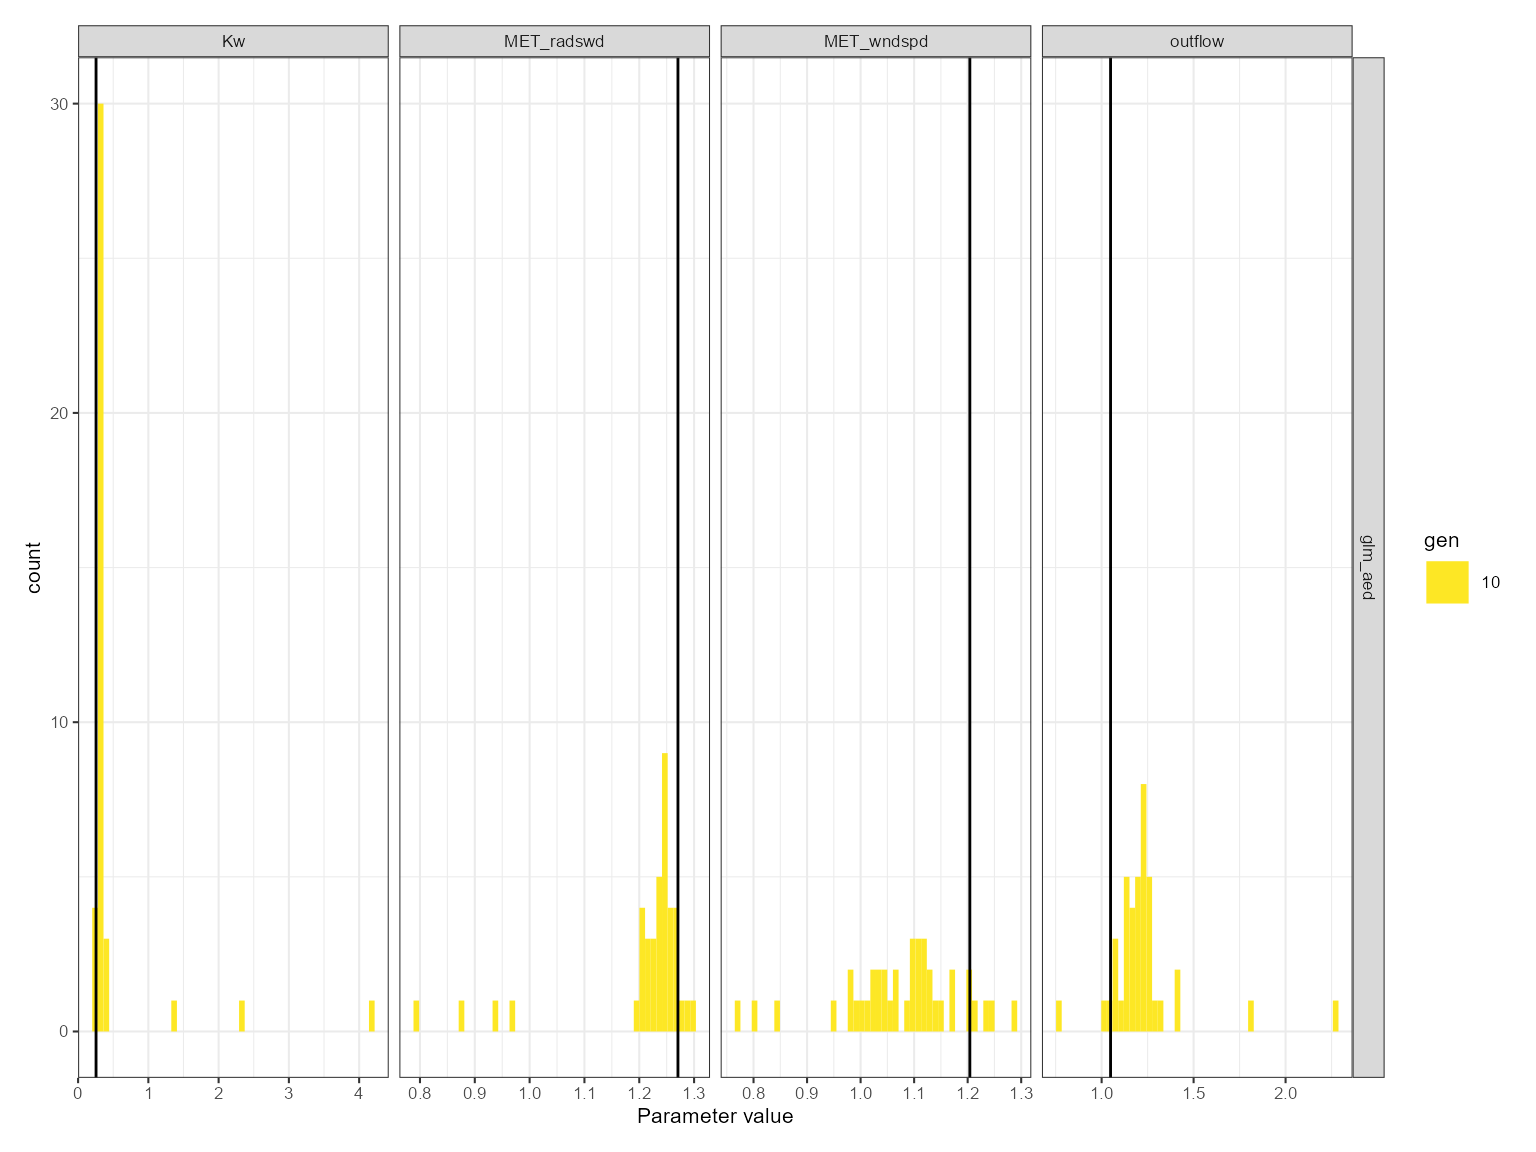
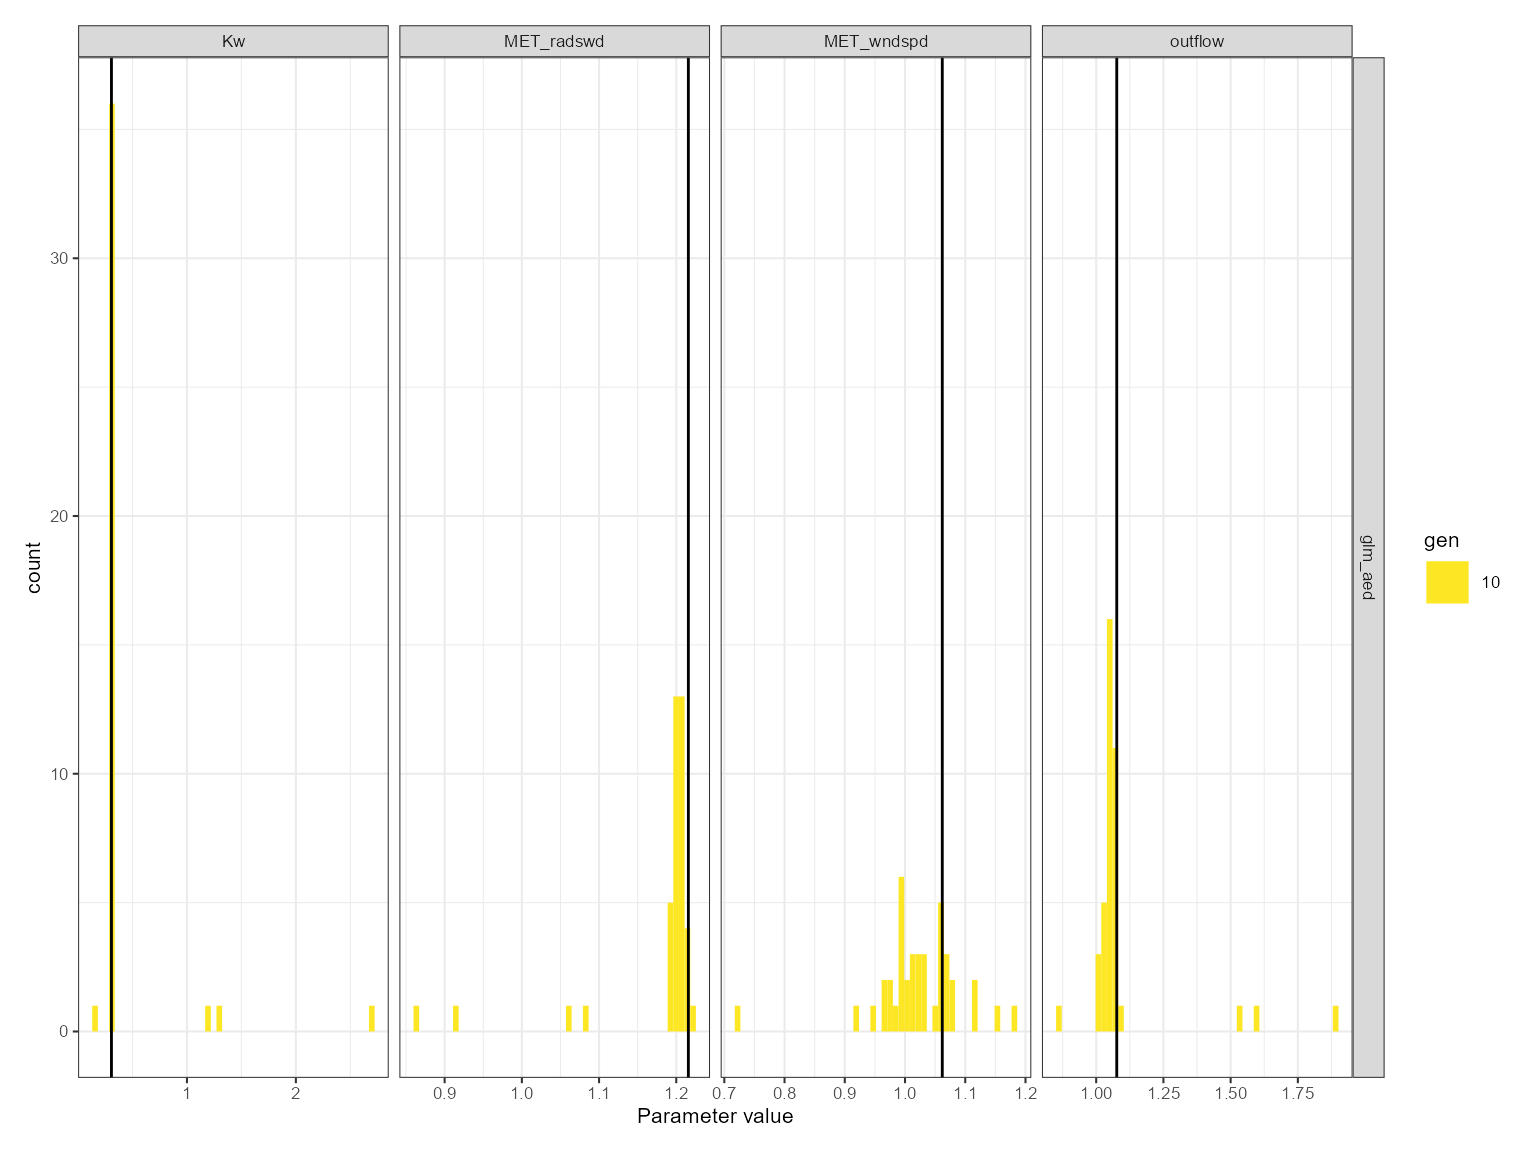
Deploying to gh-pages from @ limnotrack/aemetools@bf7b00283a17cd5ee87b092030da4ab49423300b 🚀

diff --git a/articles/calibrate-aeme.html b/articles/calibrate-aeme.html
@@ -121,9 +121,9 @@ make sure the current model setup is working.</p>
 <code class="sourceCode R"><span><span class="va">aeme_data</span> <span class="op">&lt;-</span> <span class="fu"><a href="https://rdrr.io/pkg/AEME/man/run_aeme.html" class="external-link">run_aeme</a></span><span class="op">(</span>aeme_data <span class="op">=</span> <span class="va">aeme_data</span>, model <span class="op">=</span> <span class="va">model</span>,</span>
 <span>                      verbose <span class="op">=</span> <span class="cn">FALSE</span>, mod_ctrls <span class="op">=</span> <span class="va">mod_ctrls</span>,</span>
 <span>                      path <span class="op">=</span> <span class="va">path</span><span class="op">)</span></span>
-<span><span class="co">#&gt; Running models... (Have you tried parallelizing?) [2024-01-11 23:53:02]</span></span>
-<span><span class="co">#&gt; GLM-AED run successful! [2024-01-11 23:53:03]</span></span>
-<span><span class="co">#&gt; Model run complete![2024-01-11 23:53:03]</span></span>
+<span><span class="co">#&gt; Running models... (Have you tried parallelizing?) [2024-01-12 01:00:41]</span></span>
+<span><span class="co">#&gt; GLM-AED run successful! [2024-01-12 01:00:41]</span></span>
+<span><span class="co">#&gt; Model run complete![2024-01-12 01:00:41]</span></span>
 <span><span class="co">#&gt; Retrieving and formatting temp for model glm_aed</span></span>
 <span><span class="co">#&gt; Retrieving and formatting salt for model glm_aed</span></span>
 <span><span class="fu"><a href="https://rdrr.io/r/graphics/plot.default.html" class="external-link">plot</a></span><span class="op">(</span><span class="va">aeme_data</span><span class="op">)</span></span></code></pre></div>
@@ -228,9 +228,9 @@ but the model output is generate within the lake folder.</p>
 <div class="sourceCode" id="cb7"><pre class="downlit sourceCode r">
 <code class="sourceCode R"><span><span class="fu"><a href="../reference/run_aeme_param.html">run_aeme_param</a></span><span class="op">(</span>aeme_data <span class="op">=</span> <span class="va">aeme_data</span>, param <span class="op">=</span> <span class="va">aeme_parameters</span>,</span>
 <span>                 model <span class="op">=</span> <span class="va">model</span>, path <span class="op">=</span> <span class="va">path</span>, mod_ctrls <span class="op">=</span> <span class="va">mod_ctrls</span><span class="op">)</span></span>
-<span><span class="co">#&gt; Running models... (Have you tried parallelizing?) [2024-01-11 23:53:13]</span></span>
-<span><span class="co">#&gt; GLM-AED run successful! [2024-01-11 23:53:14]</span></span>
-<span><span class="co">#&gt; Model run complete![2024-01-11 23:53:14]</span></span></code></pre></div>
+<span><span class="co">#&gt; Running models... (Have you tried parallelizing?) [2024-01-12 01:00:51]</span></span>
+<span><span class="co">#&gt; GLM-AED run successful! [2024-01-12 01:00:52]</span></span>
+<span><span class="co">#&gt; Model run complete![2024-01-12 01:00:52]</span></span></code></pre></div>
 </div>
 <div class="section level2">
 <h2 id="calibration-setup">Calibration setup<a class="anchor" aria-label="anchor" href="#calibration-setup"></a>
@@ -379,79 +379,79 @@ values.</p>
 <span>                   param <span class="op">=</span> <span class="va">aeme_parameters</span>, model <span class="op">=</span> <span class="va">model</span>,</span>
 <span>                   mod_ctrls <span class="op">=</span> <span class="va">mod_ctrls</span>, FUN_list <span class="op">=</span> <span class="va">FUN_list</span>, ctrl <span class="op">=</span> <span class="va">ctrl</span>,</span>
 <span>                   vars_sim <span class="op">=</span> <span class="va">vars_sim</span>, weights <span class="op">=</span> <span class="va">weights</span><span class="op">)</span></span>
-<span><span class="co">#&gt; Extracting indices for modelled variables [2024-01-11 23:53:15]</span></span>
-<span><span class="co">#&gt; Complete! [2024-01-11 23:53:15]</span></span>
+<span><span class="co">#&gt; Extracting indices for modelled variables [2024-01-12 01:00:52]</span></span>
+<span><span class="co">#&gt; Complete! [2024-01-12 01:00:53]</span></span>
 <span><span class="co">#&gt; Calibrating in parallel using 1 cores...</span></span>
-<span><span class="co">#&gt; Starting generation 1/10, 40 members. [2024-01-11 23:53:16]</span></span>
+<span><span class="co">#&gt; Starting generation 1/10, 40 members. [2024-01-12 01:00:53]</span></span>
 <span><span class="co">#&gt;        light.Kw MET_wndspd MET_radswd outflow</span></span>
-<span><span class="co">#&gt; mean      2.812     1.0000     0.9995  1.4970</span></span>
-<span><span class="co">#&gt; median    2.832     0.9985     1.0010  1.5010</span></span>
-<span><span class="co">#&gt; sd        1.576     0.1753     0.1753  0.5846</span></span>
-<span><span class="co">#&gt; Best fit: 2.103 (sd: 219.525)</span></span>
-<span><span class="co">#&gt;             Parameters: [0.369, 1.078, 1.223, 1.3]</span></span>
+<span><span class="co">#&gt; mean      2.806     0.9990     1.0000  1.5010</span></span>
+<span><span class="co">#&gt; median    2.844     0.9997     1.0010  1.5220</span></span>
+<span><span class="co">#&gt; sd        1.579     0.1759     0.1748  0.5864</span></span>
+<span><span class="co">#&gt; Best fit: 2.171 (sd: 219.513)</span></span>
+<span><span class="co">#&gt;             Parameters: [1.154, 0.734, 1.007, 1.268]</span></span>
 <span><span class="co">#&gt; Survival rate: 1</span></span>
-<span><span class="co">#&gt; Starting generation 2/10, 40 members. [2024-01-11 23:53:50]</span></span>
+<span><span class="co">#&gt; Starting generation 2/10, 40 members. [2024-01-12 01:01:28]</span></span>
 <span><span class="co">#&gt;        light.Kw MET_wndspd MET_radswd outflow</span></span>
-<span><span class="co">#&gt; mean      2.406     1.1100      1.087  1.0290</span></span>
-<span><span class="co">#&gt; median    2.367     1.1050      1.106  1.0060</span></span>
-<span><span class="co">#&gt; sd        1.677     0.1115      0.154  0.2832</span></span>
-<span><span class="co">#&gt; Best fit: 2.1031 (sd: 93.855)</span></span>
+<span><span class="co">#&gt; mean      3.098     1.0020     1.0350  0.9365</span></span>
+<span><span class="co">#&gt; median    2.975     1.0020     1.0230  0.8771</span></span>
+<span><span class="co">#&gt; sd        1.473     0.1702     0.1471  0.3102</span></span>
+<span><span class="co">#&gt; Best fit: 2.1191 (sd: 112.85)</span></span>
 <span><span class="co">#&gt; Survival rate: 1</span></span>
-<span><span class="co">#&gt; Starting generation 3/10, 40 members. [2024-01-11 23:54:25]</span></span>
+<span><span class="co">#&gt; Starting generation 3/10, 40 members. [2024-01-12 01:02:03]</span></span>
 <span><span class="co">#&gt;        light.Kw MET_wndspd MET_radswd outflow</span></span>
-<span><span class="co">#&gt; mean      2.314    1.09500     1.1020  1.1240</span></span>
-<span><span class="co">#&gt; median    2.166    1.08800     1.1160  1.1070</span></span>
-<span><span class="co">#&gt; sd        1.757    0.09507     0.1314  0.2436</span></span>
-<span><span class="co">#&gt; Best fit: 2.1031 (sd: 110.68)</span></span>
+<span><span class="co">#&gt; mean      2.009     0.9133    1.02700   1.177</span></span>
+<span><span class="co">#&gt; median    2.056     0.9168    1.02700   1.124</span></span>
+<span><span class="co">#&gt; sd        1.074     0.1407    0.06835   0.318</span></span>
+<span><span class="co">#&gt; Best fit: 2.1191 (sd: 144.06)</span></span>
 <span><span class="co">#&gt; Survival rate: 1</span></span>
-<span><span class="co">#&gt; Starting generation 4/10, 40 members. [2024-01-11 23:55:00]</span></span>
+<span><span class="co">#&gt; Starting generation 4/10, 40 members. [2024-01-12 01:02:37]</span></span>
 <span><span class="co">#&gt;        light.Kw MET_wndspd MET_radswd outflow</span></span>
-<span><span class="co">#&gt; mean      2.268    1.10100    1.12600  1.1270</span></span>
-<span><span class="co">#&gt; median    2.315    1.12500    1.12000  1.1080</span></span>
-<span><span class="co">#&gt; sd        1.342    0.09229    0.07281  0.3161</span></span>
-<span><span class="co">#&gt; Best fit: 2.1031 (sd: 108.07)</span></span>
+<span><span class="co">#&gt; mean     1.1530     0.9217    1.06800  1.1920</span></span>
+<span><span class="co">#&gt; median   1.0970     0.8916    1.07000  1.1440</span></span>
+<span><span class="co">#&gt; sd       0.6261     0.1244    0.07244  0.3192</span></span>
+<span><span class="co">#&gt; Best fit: 2.1191 (sd: 135.59)</span></span>
 <span><span class="co">#&gt; Survival rate: 1</span></span>
-<span><span class="co">#&gt; Starting generation 5/10, 40 members. [2024-01-11 23:55:35]</span></span>
+<span><span class="co">#&gt; Starting generation 5/10, 40 members. [2024-01-12 01:03:12]</span></span>
 <span><span class="co">#&gt;        light.Kw MET_wndspd MET_radswd outflow</span></span>
-<span><span class="co">#&gt; mean      1.370     1.1150    1.15100  1.1720</span></span>
-<span><span class="co">#&gt; median    1.317     1.1170    1.15900  1.0970</span></span>
-<span><span class="co">#&gt; sd        1.013     0.1211    0.08819  0.2081</span></span>
-<span><span class="co">#&gt; Best fit: 2.1031 (sd: 108.09)</span></span>
+<span><span class="co">#&gt; mean     0.7551     0.9304    1.09800  1.1590</span></span>
+<span><span class="co">#&gt; median   0.7618     0.9210    1.11700  1.1110</span></span>
+<span><span class="co">#&gt; sd       0.3152     0.1346    0.08601  0.2364</span></span>
+<span><span class="co">#&gt; Best fit: 2.1191 (sd: 98.05)</span></span>
 <span><span class="co">#&gt; Survival rate: 1</span></span>
-<span><span class="co">#&gt; Starting generation 6/10, 40 members. [2024-01-11 23:56:09]</span></span>
+<span><span class="co">#&gt; Starting generation 6/10, 40 members. [2024-01-12 01:03:47]</span></span>
 <span><span class="co">#&gt;        light.Kw MET_wndspd MET_radswd outflow</span></span>
-<span><span class="co">#&gt; mean     1.1950    1.10800     1.1130  1.1000</span></span>
-<span><span class="co">#&gt; median   1.0240    1.12300     1.1220  1.0950</span></span>
-<span><span class="co">#&gt; sd       0.9182    0.07769     0.1259  0.2363</span></span>
-<span><span class="co">#&gt; Best fit: 2.1031 (sd: 76.06)</span></span>
+<span><span class="co">#&gt; mean     0.6751    0.91070    1.14200  1.1330</span></span>
+<span><span class="co">#&gt; median   0.4019    0.91370    1.14100  1.0620</span></span>
+<span><span class="co">#&gt; sd       1.0520    0.09814    0.04127  0.2949</span></span>
+<span><span class="co">#&gt; Best fit: 2.1191 (sd: 111.44)</span></span>
 <span><span class="co">#&gt; Survival rate: 1</span></span>
-<span><span class="co">#&gt; Starting generation 7/10, 40 members. [2024-01-11 23:56:44]</span></span>
+<span><span class="co">#&gt; Starting generation 7/10, 40 members. [2024-01-12 01:04:22]</span></span>
 <span><span class="co">#&gt;        light.Kw MET_wndspd MET_radswd outflow</span></span>
-<span><span class="co">#&gt; mean     1.0180    1.14700    1.15000  1.2040</span></span>
-<span><span class="co">#&gt; median   0.7626    1.14800    1.13900  1.1700</span></span>
-<span><span class="co">#&gt; sd       1.1630    0.06284    0.08929  0.3054</span></span>
-<span><span class="co">#&gt; Best fit: 2.1031 (sd: 127.51)</span></span>
+<span><span class="co">#&gt; mean     0.7009     0.9768    1.16400  1.0810</span></span>
+<span><span class="co">#&gt; median   0.3762     0.9897    1.16300  1.0490</span></span>
+<span><span class="co">#&gt; sd       1.0710     0.1357    0.02969  0.1656</span></span>
+<span><span class="co">#&gt; Best fit: 2.11 (sd: 77.929)</span></span>
 <span><span class="co">#&gt; Survival rate: 1</span></span>
-<span><span class="co">#&gt; Starting generation 8/10, 40 members. [2024-01-11 23:57:19]</span></span>
+<span><span class="co">#&gt; Starting generation 8/10, 40 members. [2024-01-12 01:04:58]</span></span>
 <span><span class="co">#&gt;        light.Kw MET_wndspd MET_radswd outflow</span></span>
-<span><span class="co">#&gt; mean     0.8009    1.13000    1.19100  1.1770</span></span>
-<span><span class="co">#&gt; median   0.4941    1.13700    1.21000  1.1380</span></span>
-<span><span class="co">#&gt; sd       1.1430    0.06815    0.08231  0.1477</span></span>
-<span><span class="co">#&gt; Best fit: 2.1024 (sd: 100.56)</span></span>
+<span><span class="co">#&gt; mean     0.6261     1.0130     1.1550  1.1010</span></span>
+<span><span class="co">#&gt; median   0.3398     1.0150     1.1860  1.0380</span></span>
+<span><span class="co">#&gt; sd       0.9954     0.1188     0.1117  0.2731</span></span>
+<span><span class="co">#&gt; Best fit: 2.1096 (sd: 118.66)</span></span>
 <span><span class="co">#&gt; Survival rate: 1</span></span>
-<span><span class="co">#&gt; Starting generation 9/10, 40 members. [2024-01-11 23:57:54]</span></span>
+<span><span class="co">#&gt; Starting generation 9/10, 40 members. [2024-01-12 01:05:33]</span></span>
 <span><span class="co">#&gt;        light.Kw MET_wndspd MET_radswd outflow</span></span>
-<span><span class="co">#&gt; mean     0.6100      1.129     1.1870  1.2220</span></span>
-<span><span class="co">#&gt; median   0.3895      1.144     1.2170  1.1580</span></span>
-<span><span class="co">#&gt; sd       0.8953      0.107     0.1188  0.2846</span></span>
-<span><span class="co">#&gt; Best fit: 2.1024 (sd: 119.31)</span></span>
+<span><span class="co">#&gt; mean     0.4222    1.01400     1.1520  1.0620</span></span>
+<span><span class="co">#&gt; median   0.3208    1.01500     1.1970  1.0340</span></span>
+<span><span class="co">#&gt; sd       0.4170    0.07395     0.1373  0.1509</span></span>
+<span><span class="co">#&gt; Best fit: 2.1087 (sd: 93.872)</span></span>
 <span><span class="co">#&gt; Survival rate: 1</span></span>
-<span><span class="co">#&gt; Starting generation 10/10, 40 members. [2024-01-11 23:58:29]</span></span>
+<span><span class="co">#&gt; Starting generation 10/10, 40 members. [2024-01-12 01:06:08]</span></span>
 <span><span class="co">#&gt;        light.Kw MET_wndspd MET_radswd outflow</span></span>
-<span><span class="co">#&gt; mean     0.4919     1.0770     1.2070  1.2250</span></span>
-<span><span class="co">#&gt; median   0.3264     1.0970     1.2410  1.1940</span></span>
-<span><span class="co">#&gt; sd       0.6919     0.1103     0.1111  0.2223</span></span>
-<span><span class="co">#&gt; Best fit: 2.0999 (sd: 116.15)</span></span>
+<span><span class="co">#&gt; mean     0.4159    1.02300     1.1810  1.0950</span></span>
+<span><span class="co">#&gt; median   0.3139    1.01900     1.2020  1.0560</span></span>
+<span><span class="co">#&gt; sd       0.4249    0.07248     0.0742  0.1764</span></span>
+<span><span class="co">#&gt; Best fit: 2.1062 (sd: 108.03)</span></span>
 <span><span class="co">#&gt; Survival rate: 1</span></span></code></pre></div>
 </div>
 <div class="section level2">

diff --git a/articles/download-era5.html b/articles/download-era5.html
@@ -94,8 +94,8 @@ your computer to speed up the download.</p>
 <span><span class="va">met</span> <span class="op">&lt;-</span> <span class="fu"><a href="../reference/get_era5_point.html">get_era5_point</a></span><span class="op">(</span>lat <span class="op">=</span> <span class="va">lat</span>, lon <span class="op">=</span> <span class="va">lon</span>, years <span class="op">=</span> <span class="fl">2000</span><span class="op">:</span><span class="fl">2001</span>,</span>
 <span>                      variables <span class="op">=</span> <span class="va">variables</span>, format <span class="op">=</span> <span class="st">"aeme"</span>, parallel <span class="op">=</span> <span class="cn">FALSE</span><span class="op">)</span></span>
 <span><span class="co">#&gt; Point is in the grid.</span></span>
-<span><span class="co">#&gt; Downloading ERA5 variables... [2024-01-11 23:59:13] (Have you tried parallelising?)</span></span>
-<span><span class="co">#&gt; Finished downloading ERA5 variables! [2024-01-11 23:59:25]</span></span>
+<span><span class="co">#&gt; Downloading ERA5 variables... [2024-01-12 01:06:54] (Have you tried parallelising?)</span></span>
+<span><span class="co">#&gt; Finished downloading ERA5 variables! [2024-01-12 01:07:07]</span></span>
 <span><span class="fu"><a href="https://rdrr.io/r/base/summary.html" class="external-link">summary</a></span><span class="op">(</span><span class="va">met</span><span class="op">)</span></span>
 <span><span class="co">#&gt;       Date              MET_tmpair       MET_pprain     </span></span>
 <span><span class="co">#&gt;  Min.   :2000-01-01   Min.   : 3.983   Min.   : 0.0000  </span></span>
